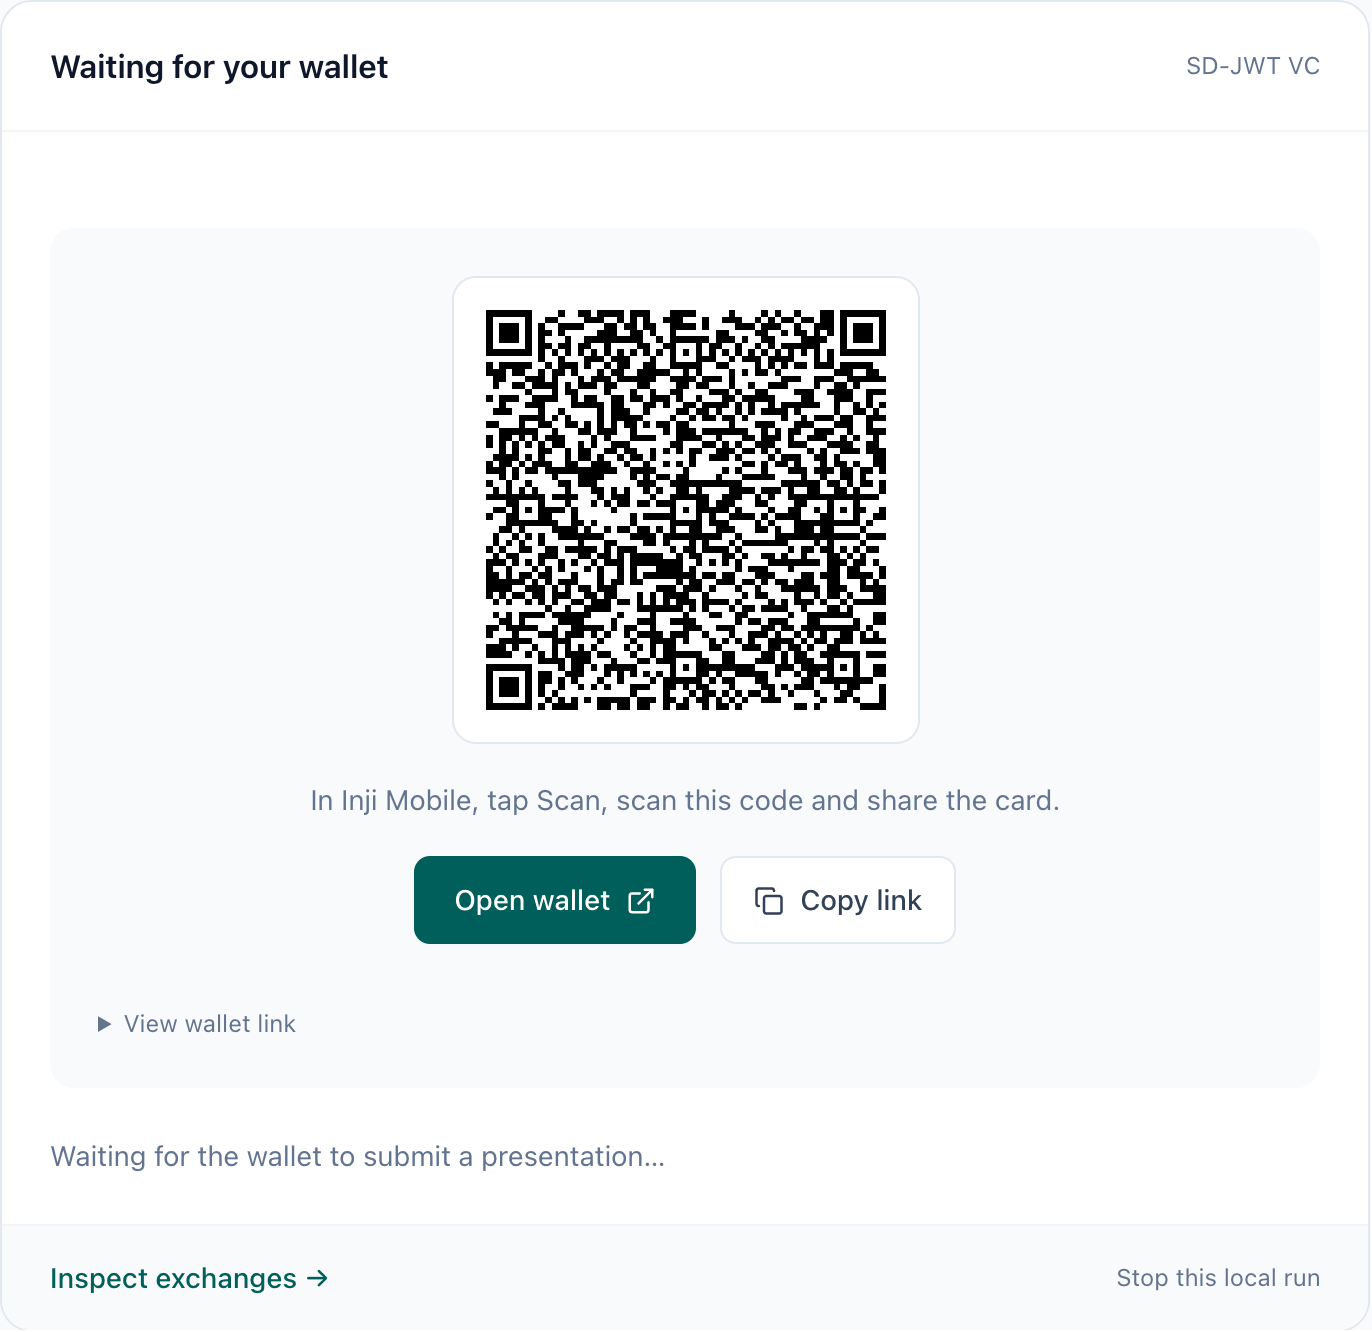
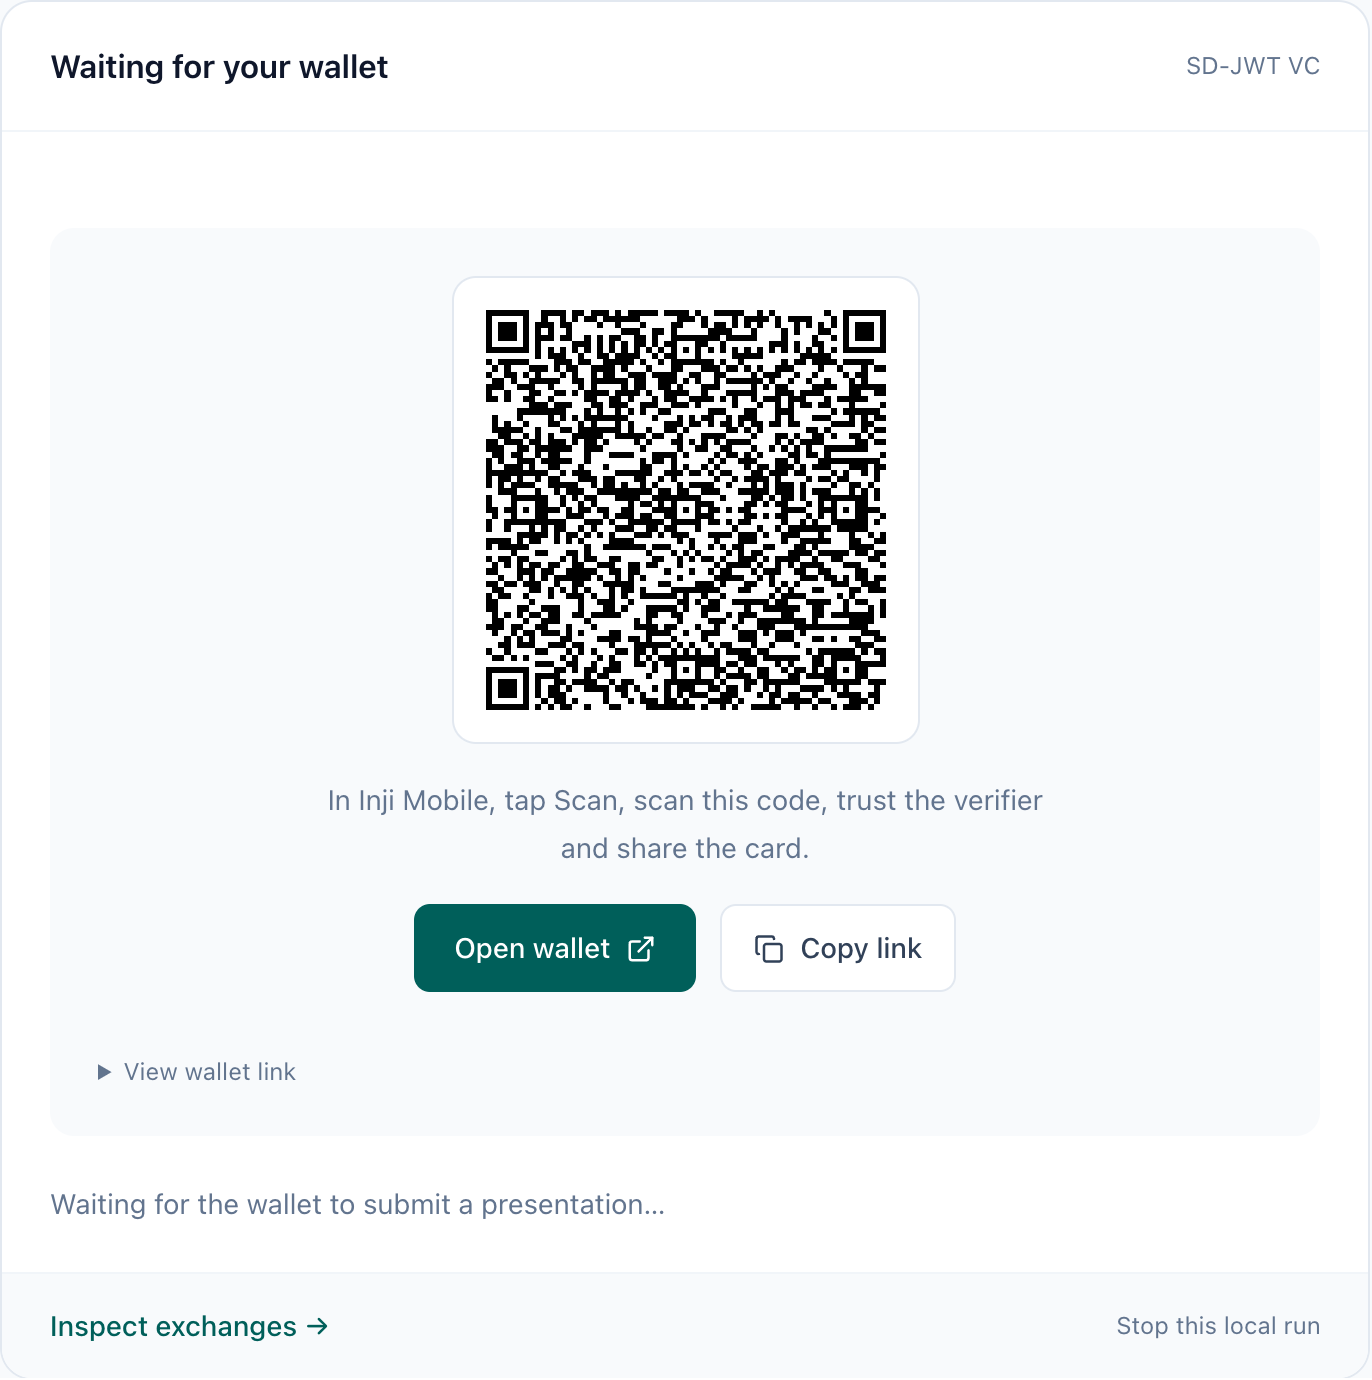
docs: record mobile mode recovery, repair and trust prompts
Adds the final validation rounds and refreshes the screenshots and evidence.

diff --git a/README.md b/README.md
@@ -14,7 +14,7 @@ node infra/inji/scripts/prepare.mjs
 docker compose -f docker-compose.yml -f docker-compose.local.yml up -d --build --wait --wait-timeout 600
 ```
 
-The shared development `.env` and `infra/inji/secrets/` are committed for the private team, so a fresh clone needs only the commands above with Node.js 22 and Docker. Both frontend and backend are built and started by Compose. A new database and Keycloak realm are initialized automatically, including the embedded wallet callback. Do not run `bootstrap.mjs` on a clone; it refuses because `.env` exists. Use **Step 0 · Create account / Sign in** in the HTTPS workbench, then choose **Register** on Keycloak’s sign-in page. New accounts receive a persistent synthetic farmer record on first issuance. The optional seeded `farmer` login still uses `LOCAL_FARMER_PASSWORD` from `.env`. Accept the browser certificate warning instead of trusting `local-ca.crt` system-wide: its private key is shared.
+The shared development `.env` and `infra/inji/secrets/` are committed for the private team, so a fresh clone needs only the commands above with Node.js 22 and Docker. Rerun `prepare.mjs` after pulling: Compose reads rendered files such as `infra/inji/generated/origin.env`. Both frontend and backend are built and started by Compose. A new database and Keycloak realm are initialized automatically, including the embedded wallet callback. Do not run `bootstrap.mjs` on a clone; it refuses because `.env` exists. Use **Step 0 · Create account / Sign in** in the HTTPS workbench, then choose **Register** on Keycloak’s sign-in page. New accounts receive a persistent synthetic farmer record on first issuance. The optional seeded `farmer` login still uses `LOCAL_FARMER_PASSWORD` from `.env`. Accept the browser certificate warning instead of trusting `local-ca.crt` system-wide: its private key is shared.
 
 For legacy runtime-volume installations with older secrets, follow the preservation instructions in the local setup guide before changing configuration. On this workstation the user explicitly authorized a full reset; the new direct Compose setup now uses this checkout’s `.env` and keys. The previous workspace is no longer needed.
 
@@ -38,12 +38,12 @@ See [the implementation review](context/IMPLEMENTATION_REVIEW.md) for findings, 
 
 ## Inji Mobile on a phone
 
-A phone cannot reach `inji.127.0.0.1.sslip.io`, and Inji Mobile only trusts publicly issued TLS certificates. **Mobile mode** publishes the wallet-facing endpoints on a temporary `*.trycloudflare.com` HTTPS URL and moves the stack's identity there (issuer and verifier `did:web`, Keycloak issuer, Verify request URLs, Mimoto trust):
+A phone cannot reach `inji.127.0.0.1.sslip.io`, and Inji Mobile only trusts publicly issued TLS certificates. **Mobile mode** publishes the wallet-facing endpoints on a temporary `*.trycloudflare.com` HTTPS URL and moves the stack's identity there (issuer and verifier `did:web`, Certify's signing DID, Keycloak issuer, Verify request URLs):
 
 ```bash
 node infra/inji/scripts/local/mobile.mjs start      # about a minute; prints the URL and eight readiness checks
 node infra/inji/scripts/local/mobile.mjs rehearse   # optional: simulated Inji Mobile, end to end over the URL
-node infra/inji/scripts/local/mobile.mjs status     # rerun the readiness checks
+node infra/inji/scripts/local/mobile.mjs status     # rerun the readiness checks, or report a dropped tunnel
 node infra/inji/scripts/local/mobile.mjs stop       # restore the .env origin and remove the tunnel
 ```
 
@@ -53,8 +53,8 @@ Use **Inji Mobile 0.22.x** on Android, the release paired with Certify 0.14, Mim
 | --- | --- |
 | ![Inji Mobile selected with a phone-reachable issuer](context/screenshots/mobile-ready.png) | ![Warning when the issuer only resolves locally](context/screenshots/mobile-not-ready.png) |
 
-1. **Start issuance.** The workbench shows a credential offer naming only this issuer and the selected credential. In the app choose **Add card → Scan & Download Card** and scan it. The app signs in through Keycloak (register an account or use `farmer`) with its public `wallet` client and PKCE, then downloads the credential. Token and credential traffic passes through the protocol bridge and appears in the inspector. Select **I received the credential** once the card is in the app.
-2. **Request verification.** In the app tap **Scan**, scan the verifier QR and share the card. Inji Verify's result and the playground's independent checks appear as for any other wallet.
+1. **Start issuance.** The workbench shows a credential offer naming only this issuer and the selected credential. In the app choose **Add card → Scan & Download Card** and scan it, then choose **Yes, I Trust This Issuer** (the app asks once per tunnel URL). The app signs in through Keycloak (register an account or use `farmer`) with its public `wallet` client and PKCE, then downloads the credential. Token and credential traffic passes through the protocol bridge and appears in the inspector. Select **I received the credential** once the card is in the app.
+2. **Request verification.** In the app tap **Scan**, scan the verifier QR, choose **Yes, I Trust This Verifier**, and share the card. Inji Verify's result and the playground's independent checks appear as for any other wallet.
 
 | Issuance | Verification | Result |
 | --- | --- | --- |
@@ -62,9 +62,9 @@ Use **Inji Mobile 0.22.x** on Android, the release paired with Certify 0.14, Mim
 
 ![Inspector showing the offer, bridged token and credential exchanges](context/screenshots/mobile-inspector.png)
 
-Only the endpoints a phone wallet needs are public: issuer metadata and credential, DID documents, Keycloak's `inji` realm login and token, Mimoto, Verify's request and submission paths, and static configuration. The Keycloak admin console and `master` realm, the playground API and workbench, the bridge, Certify's offer creation and Verify's request creation answer 404 on the tunnel; `status` checks this. The URL is unguessable but not secret, so stop mobile mode when you are done.
+Only the endpoints a phone wallet needs are public: issuer metadata and credential, DID documents, Keycloak's `inji` realm login and token, Verify's request and submission paths, and static configuration. The Keycloak admin console and `master` realm, the playground API and workbench, the bridge, Mimoto, Certify's offer creation and Verify's request creation answer 404 on the tunnel; `status` checks this. A stock Inji Mobile keeps its built-in backend for its own settings, so it never calls this stack's Mimoto. The URL is unguessable but not secret, so stop mobile mode when you are done.
 
-Limits: each `start` gets a new URL, so credentials issued in an earlier session name an issuer DID that no longer resolves. The embedded wallet and Inji Web are unavailable while mobile mode is on. `rehearse` covers SD-JWT end to end and JSON-LD issuance plus verifier-request authentication; JSON-LD presentation needs the real app. iOS has not been tested. Use `start --origin https://…` with a stable tunnel of your own (for example an ngrok domain pointed at the gateway's `8088` listener) to keep the identity across sessions. Details are in [the local setup guide](infra/inji/README.md#inji-mobile-mode).
+Limits: a quick tunnel can drop after some hours, and its URL never comes back. `status` reports this; `start` then moves the stack to a new URL (it keeps a URL that still answers). Credentials issued on an earlier URL name an issuer DID that no longer resolves, so issue the card again. The embedded wallet and Inji Web are unavailable while mobile mode is on. `rehearse` covers SD-JWT end to end and JSON-LD issuance plus verifier-request authentication; JSON-LD presentation needs the real app. iOS has not been tested. Use `start --origin https://…` with a stable tunnel of your own (for example an ngrok domain pointed at the gateway's `8088` listener) to keep the identity across sessions. Details are in [the local setup guide](infra/inji/README.md#inji-mobile-mode).
 
 ## Use the workbench
 

diff --git a/context/LIVE_VALIDATION.md b/context/LIVE_VALIDATION.md
@@ -142,7 +142,7 @@ Pinned Inji Verify still accepts the diagnostic SD-JWT wrong-nonce submission (r
 
 ## Inji Mobile mode — 28 October 2026
 
-Validated on macOS (Apple silicon) with Colima 6 CPU / 12 GiB, a freshly created stack, Certify 0.14.0, Mimoto 0.21.0 and Verify 0.17.0, and two real Cloudflare quick tunnels. The Inji Mobile 0.22.1 behaviour reproduced by the simulator was taken from the wallet, `inji-vci-client` 0.7.0 and `inji-openid4vp` 0.7.0 sources; Certify's proof validator at v0.14.0 accepts the wallet's proof without `iss`.
+Validated on macOS (Apple silicon) with Colima 6 CPU / 12 GiB, a freshly created stack, Certify 0.14.0, Mimoto 0.21.0 and Verify 0.17.0, and five real Cloudflare quick tunnels. The Inji Mobile 0.22.1 behaviour reproduced by the simulator was taken from the wallet, `inji-vci-client` 0.7.0 and `inji-openid4vp` 0.7.0 sources; Certify's proof validator at v0.14.0 accepts the wallet's proof without `iss`.
 
 | Check | Result |
 | --- | --- |
@@ -154,12 +154,20 @@ Validated on macOS (Apple silicon) with Colima 6 CPU / 12 GiB, a freshly created
 | `stop` | Issuer, authorization server, verifier DID, database DIDs, embedded wallet and Inji Web restored; tunnel removed |
 | Rehearsal on the restored local origin (`a4f6cb60`) | VALID / PASS |
 | `start` on a new tunnel | Identity moved from the local origin to the new URL; 8/8 checks; SD-JWT `7222d585` PASS; JSON-LD `42d3751f` issued and request authenticated |
-| Workbench through Playwright (`f54591a4`) | Offer QR, verifier QR, PASS result and inspector captured in `context/screenshots/`; report in [evidence](evidence/mobile-sd-jwt-2026-10-28.json) |
+| Tunnel dropped by Cloudflare after about seven hours | `status` reports the unreachable URL; `start` recreated the tunnel and moved the identity to the new URL in about a minute; 8/8 checks; SD-JWT `717c886b` PASS; JSON-LD `76c77e14` issued and request authenticated; `start` again kept the same tunnel and URL |
+| `start` with Keycloak stopped; `start --origin https://x.example/` | Both refused before writing any state or starting a tunnel |
+| `stop` interrupted after its first step (state file removed by hand) | `status` reported the unfinished stop and the tunnel origin still applied; `stop` again moved Certify and every realm redirect back to the local origin |
+| Public listener probed with `;` path parameters, `..;/` and bare `/v1/mimoto/actuator` | Mimoto answered its own 401 (and the actuator index 200) before the fix; every probe now returns 404 from nginx, wallet paths unchanged |
+| Final round on the finished code | 8/8 checks; SD-JWT `2fd6b5f8` PASS; JSON-LD `206d749f` issued and request authenticated; local mock-wallet runs: normal `18de3481` PASS, bad signature `e5096e25` PASS, wrong nonce `c996928c` FAIL (pinned Verify accepts it, as recorded above) |
+| Workbench through Playwright (`7704c19b`) | Offer QR, verifier QR, PASS result and inspector captured in `context/screenshots/`; report in [evidence](evidence/mobile-sd-jwt-2026-10-28.json) |
 
 Found and fixed during validation:
 
 - The `wallet` client registered in an existing realm lacked the realm's `basic` scope, so tokens had no `sub` and Certify returned `invalid_token` ("The sub claim is not valid"). Mobile mode now assigns default and credential scopes on every start.
 - The public listener answered `POST /v1/verify/vp-request` with a 301 to a bridged path. Both forms of the request-creation path now return 404.
 - Moving the configuration back to an earlier origin silently kept the newer one; rebasing now starts from the current origin. Covered by a unit test.
+- After the tunnel dropped, `start` reused the dead URL from the old tunnel log and `status` printed eight fetch failures. `start` now keeps only a URL that answers and otherwise recreates the tunnel; `status` explains the drop.
+- A `start` or `stop` that failed partway could not be repaired by rerunning it, because the next run took its starting origin from the state file. Switching now starts from the origin last applied to Certify and the realm, both commands wait for a healthy database and Keycloak, and `--origin` is validated before anything is written. A new readiness check reads the DID Certify signs with from its database.
+- Mimoto was published although a stock Inji Mobile reads its settings and trusted verifiers from the backend built into the app. It is now local only; the app instead asks the user once to trust the issuer and the verifier, which the workbench and README now say.
 
 Not yet validated: a scan with a physical Android phone running Inji Mobile 0.22.x, JSON-LD presentation from the app, and iOS. The rehearsal reproduces the documented wallet requests; it cannot prove app UI behaviour or on-device credential verification.

diff --git a/infra/inji/README.md b/infra/inji/README.md
@@ -119,7 +119,7 @@ The base `docker-compose.yml` remains available for a separately onboarded exter
 
 `node infra/inji/scripts/local/mobile.mjs start` makes the running stack usable from a phone. It changes generated configuration and live service state only; `.env` and the secrets stay as committed.
 
-1. Starts the `tunnel` service (Compose profile `mobile`, `cloudflare/cloudflared` quick tunnel, no account) pointed at the gateway's internal `8088` listener, and reads the assigned `https://*.trycloudflare.com` URL from its log. `--origin https://…` uses a stable URL you run yourself instead.
+1. Starts the `tunnel` service (Compose profile `mobile`, `cloudflare/cloudflared` quick tunnel, no account) pointed at the gateway's internal `8088` listener, and reads the assigned `https://*.trycloudflare.com` URL from its log. A running session's URL is kept while it answers; a dropped quick tunnel is recreated for a new URL. `--origin https://…` uses a stable URL you run yourself instead.
 2. Writes `infra/inji/generated/mobile.json`. `Configuration.load()` then moves every `.env` value derived from `INJI_PUBLIC_ORIGIN` to the new origin, so all renderers and helper scripts see one consistent identity.
 3. Re-renders configuration. `origin.env` now carries the origin into Compose for Keycloak (`KC_HOSTNAME`), Verify (`INJI_VP_SUBMISSION_BASE_URL`, `INJI_VERIFY_REDIRECT_URI`) and Inji Web (`MIMOTO_URL`).
 4. Rewrites the issuer DID and JSON-LD context URL that Certify stored in `certify.credential_config` when its database was created (the unresolvable-DID fixture is untouched).
@@ -128,9 +128,9 @@ The base `docker-compose.yml` remains available for a separately onboarded exter
 
 Services inside Compose reach the public origin through the tunnel (for example Certify fetching Keycloak keys), so the computer needs internet access while mobile mode is on. `stop` reverses steps 2–6 and removes the tunnel.
 
-The `8088` listener in `config/gateway.local.conf` is an allowlist: issuer metadata and `/credential` (through the bridge), `/.well-known/did.json`, `/v1/verify/did.json`, `/auth/realms/inji/` and `/auth/resources/`, the Keycloak token endpoint (through the bridge), `/v1/mimoto/` except the playground and actuator paths, Verify's `vp-request/{id}` and `vp-submission/` (through the bridge) and `/config/`. Everything else returns 404.
+The `8088` listener in `config/gateway.local.conf` is an allowlist: issuer metadata and `/credential` (through the bridge), `/.well-known/did.json`, `/v1/verify/did.json`, `/auth/realms/inji/` and `/auth/resources/`, the Keycloak token endpoint (through the bridge), Verify's `vp-request/{id}` and `vp-submission/` (through the bridge) and `/config/`. Everything else returns 404, including any path containing `;`, which the Java services would otherwise resolve differently from nginx. Mimoto is not published: Inji Mobile 0.22 reads its settings and trusted verifiers from the backend built into the app, and asks the user to trust a `did:` verifier it does not list.
 
-`status` replays Inji Mobile's lookups over the public URL: issuer metadata with a single authorization server, discovery with an exact `issuer` match, the `wallet` client's login page, both DID documents, the JSON-LD context, Mimoto's trusted verifiers, and closed local-only paths. `rehearse [--format vc+sd-jwt|ldp_vc]` drives a real workbench run with `local/mobile/InjiMobileSimulator.mjs`, which reproduces the wallet's offer parsing, discovery, client, proof and request shapes and did:web request authentication. Unit tests are in `scripts/tests` (`node --test "infra/inji/scripts/tests/*.test.mjs"`).
+`status` replays Inji Mobile's lookups over the public URL: issuer metadata with a single authorization server, discovery with an exact `issuer` match, the `wallet` client's login page, both DID documents, the DID Certify signs with (read from its database), the JSON-LD context, and closed local-only paths. It also reports a dropped tunnel and a `start` or `stop` that did not finish; rerunning the command completes it, because switching always starts from the origin last applied to the database and realm (`generated/mobile-applied.json`). Both commands refuse to run until the database and Keycloak are healthy. `rehearse [--format vc+sd-jwt|ldp_vc]` drives a real workbench run with `local/mobile/InjiMobileSimulator.mjs`, which reproduces the wallet's offer parsing, discovery, client, proof and request shapes and did:web request authentication. Unit tests are in `scripts/tests` (`node --test "infra/inji/scripts/tests/*.test.mjs"`).
 
 ## Sources
 
